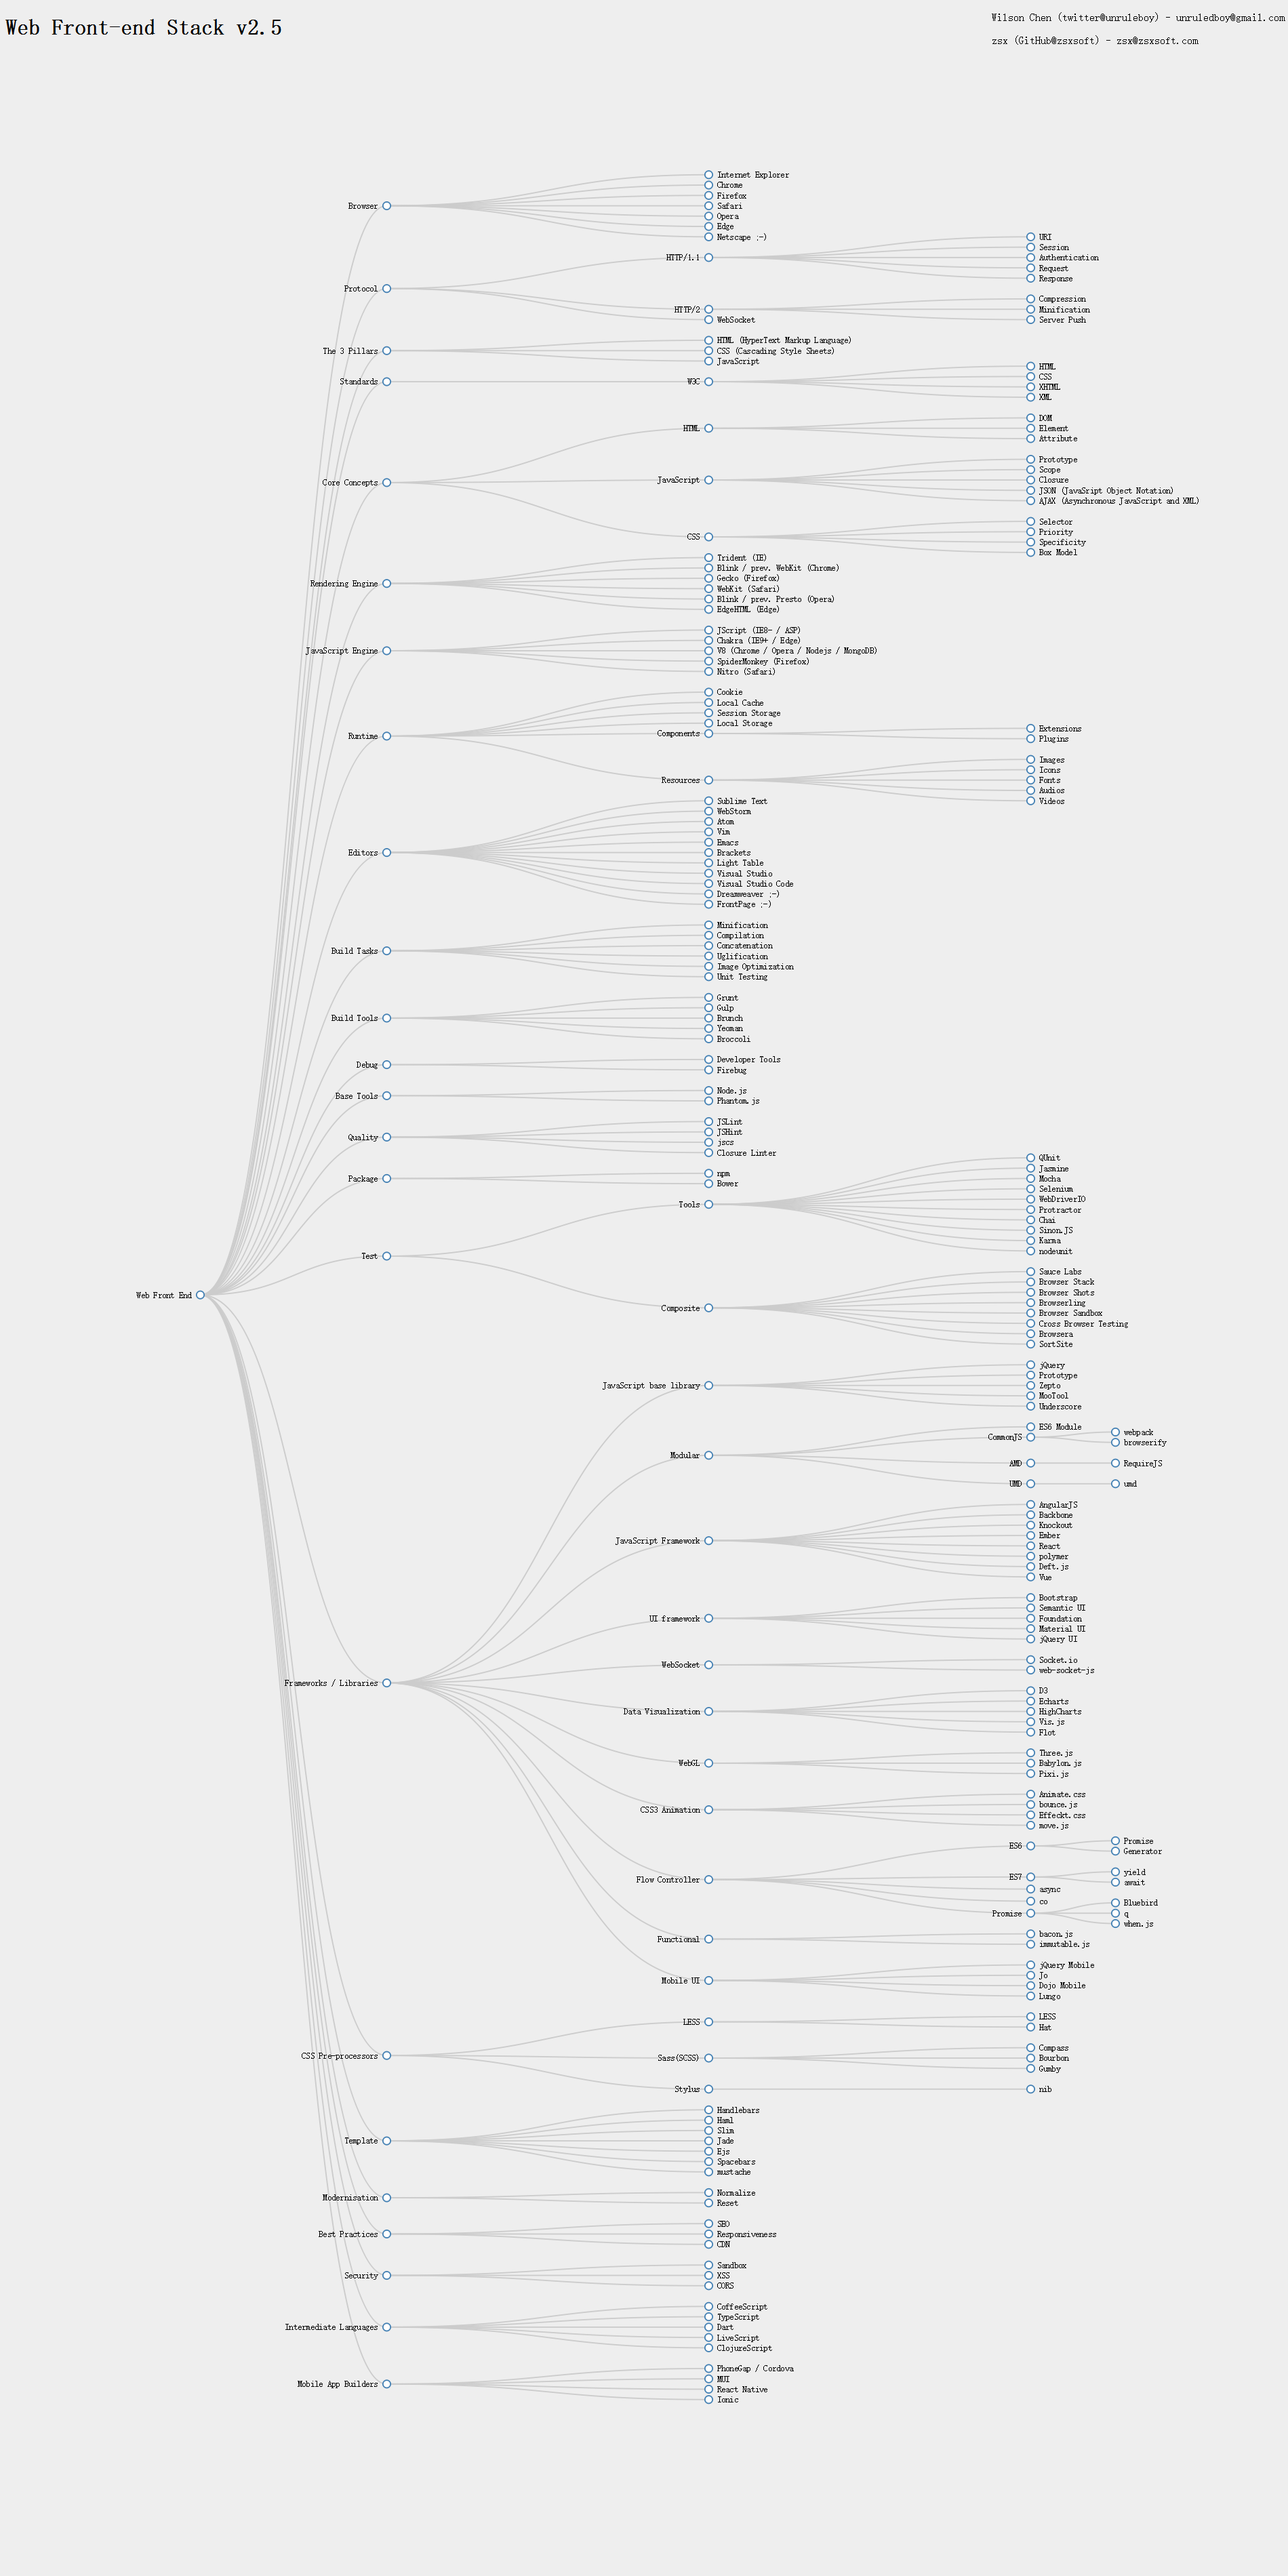
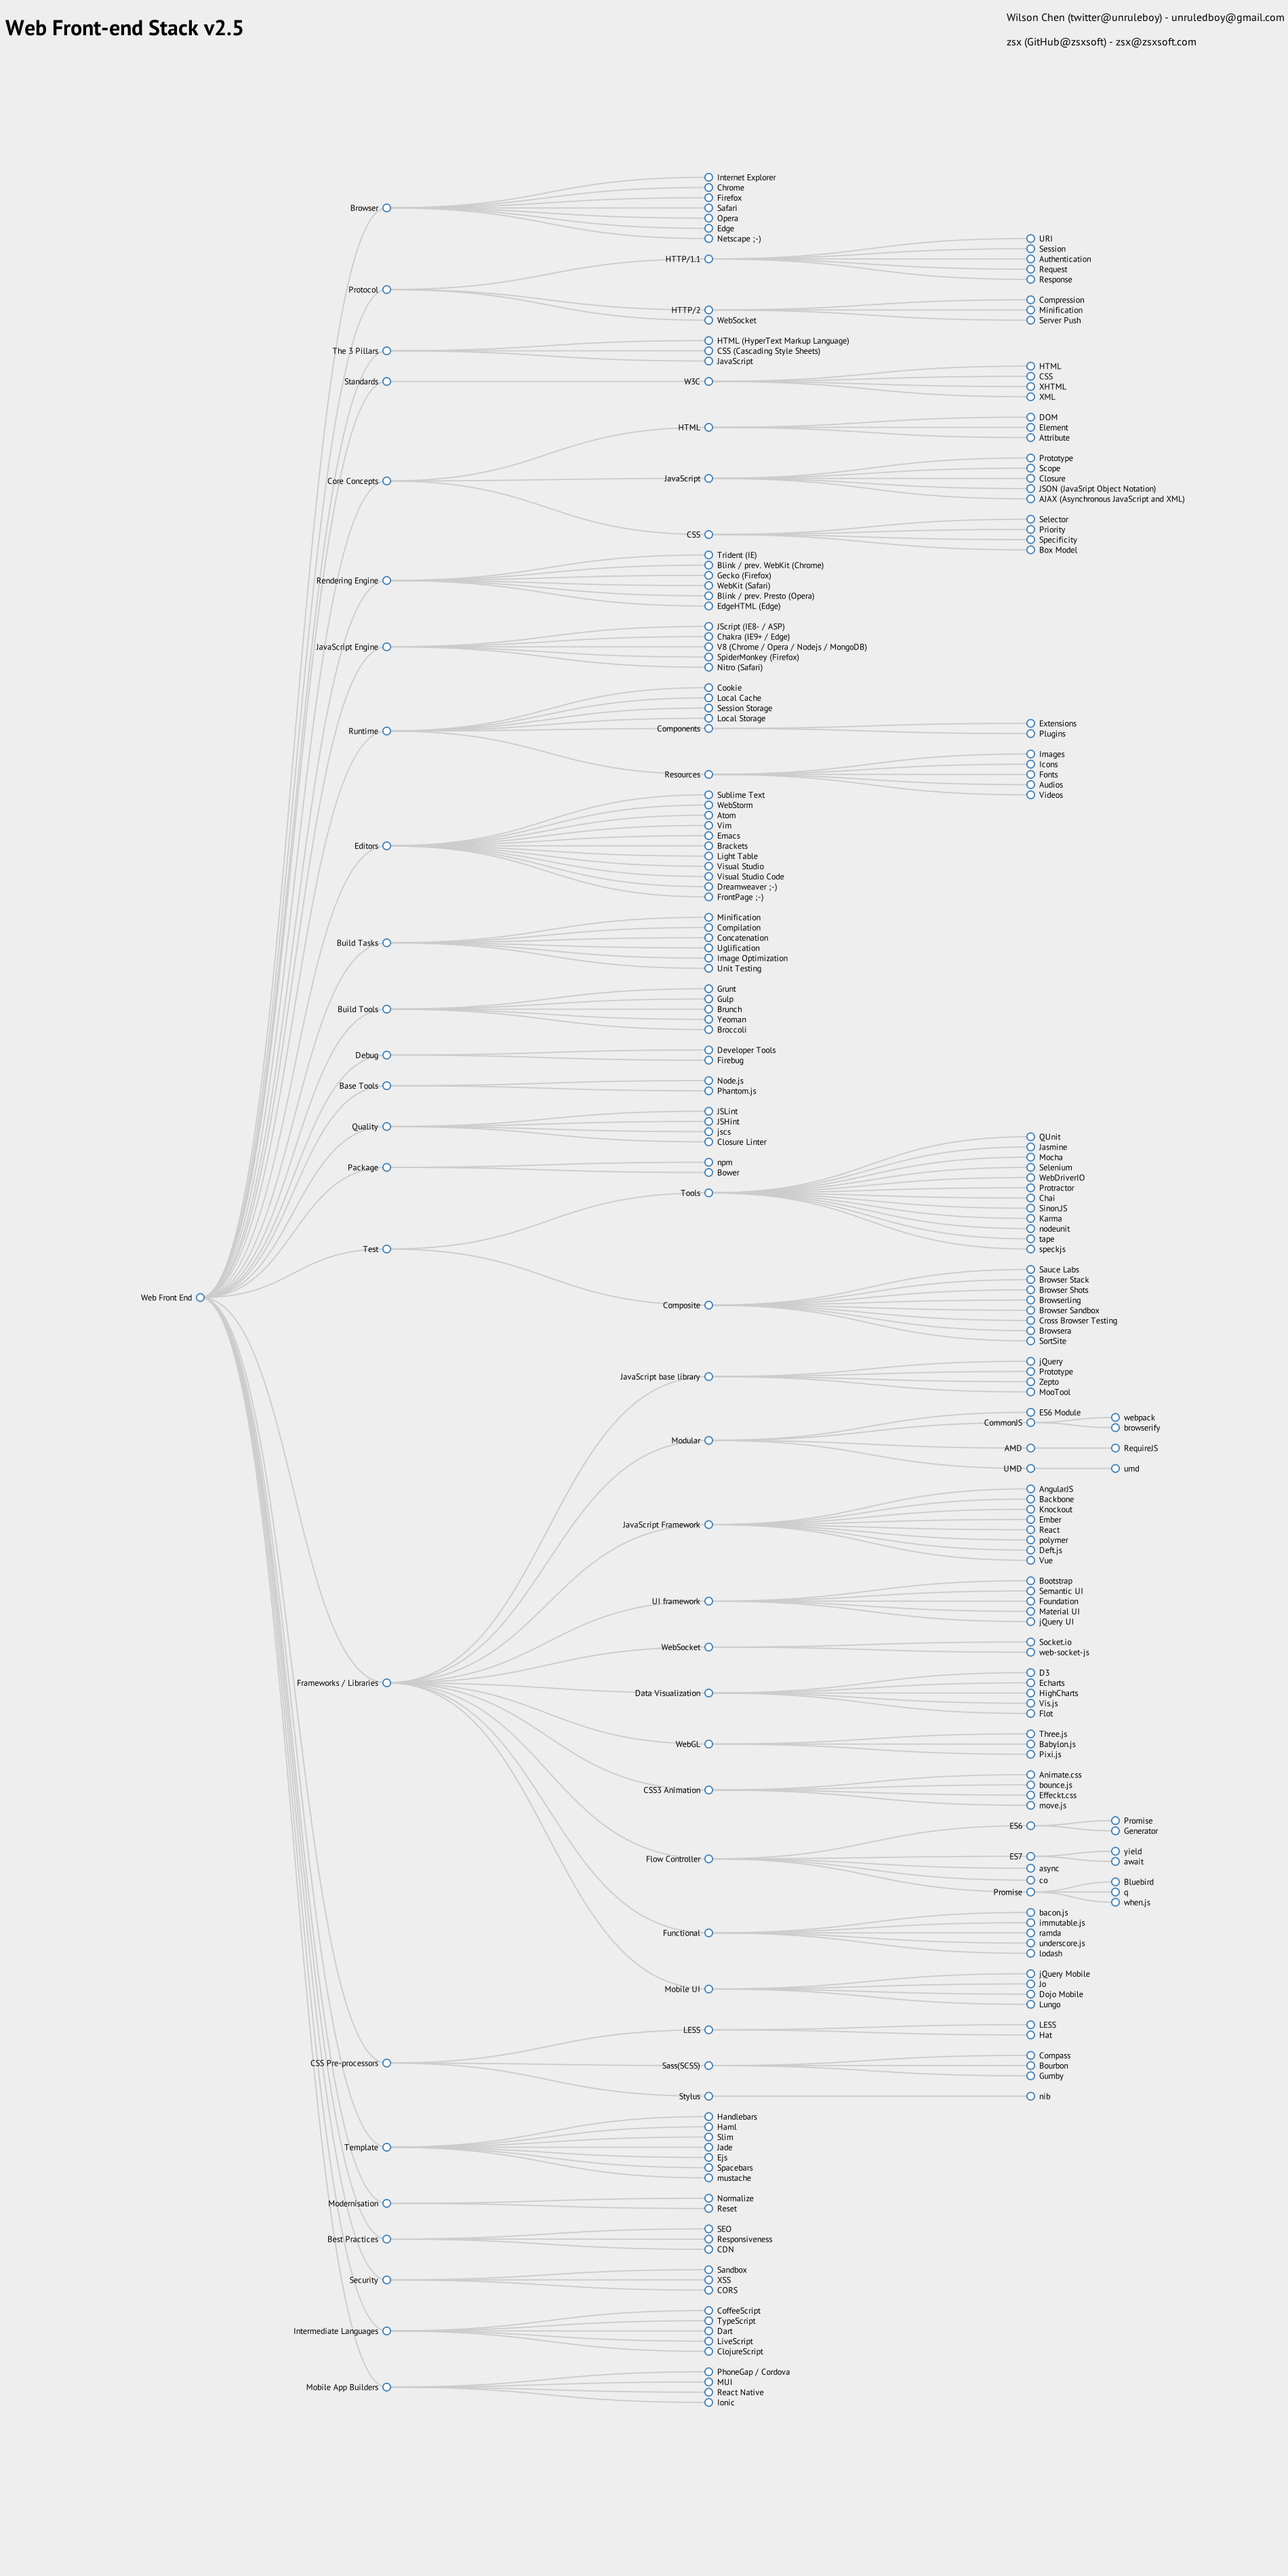
updated functional libraries

diff --git a/README.zh-cn.md b/README.zh-cn.md
@@ -199,6 +199,8 @@ https://rawgit.com/unruledboy/WebFrontEndStack/master/ux/WebFrontEndStack.htm?lo
 			- [Sinon.JS](http://sinonjs.org/) [[GitHub]](https://github.com/cjohansen/Sinon.JS/)
 			- [Karma](http://karma-runner.github.io/) [[GitHub]](https://github.com/karma-runner/karma/)
 			- nodeunit [[GitHub]](https://github.com/caolan/nodeunit/)
+			- tape [[GitHub]](http://github.com/substack/tape)
+			- [speckjs](http://speckjs.github.io/) [[GitHub]](http://github.com/speckjs/speckjs/)
 		- 在线工具
 			- [Sauce Labs](https://saucelabs.com/)
 			- [Browser Stack](https://www.browserstack.com/)
@@ -214,7 +216,6 @@ https://rawgit.com/unruledboy/WebFrontEndStack/master/ux/WebFrontEndStack.htm?lo
 			- [Prototype](http://prototypejs.org/) [[GitHub]](https://github.com/sstephenson/prototype/)
 			- [Zepto](http://zeptojs.com/) [[GitHub]](https://github.com/madrobby/zepto/)
 			- [MooTool](http://mootools.net/) [[GitHub]](https://github.com/mootools/mootools-core/)
-			- [Underscore](http://underscorejs.org/) [[GitHub]](https://github.com/jashkenas/underscore/)
 		- 模块化
 			- ES6 Module
 			- CommonJS
@@ -273,6 +274,9 @@ https://rawgit.com/unruledboy/WebFrontEndStack/master/ux/WebFrontEndStack.htm?lo
 		- 函数式编程
 			- [bacon.js](http://baconjs.github.io/) [[GitHub]](https://github.com/baconjs/bacon.js/)
 			- [immutable.js](https://facebook.github.io/immutable-js/) [[GitHub]](https://github.com/facebook/immutable-js/)
+			- [ramda](http://ramdajs.com/) [[GitHub]](http://github.com/ramda/ramda)
+			- [underscore.js](http://underscorejs.org/) [[GitHub]](https://github.com/jashkenas/underscore)
+			- [lodash](https://lodash.com/) [[GitHub]](https://github.com/lodash/lodash)
 		- 手机 UI 框架
 			- [jQuery Mobile](https://jquerymobile.com/) [[GitHub]](https://github.com/jquery/jquery-mobile/)
 			- [Jo](http://joapp.com/) [[GitHub]](https://github.com/davebalmer/jo/)
@@ -295,9 +299,9 @@ https://rawgit.com/unruledboy/WebFrontEndStack/master/ux/WebFrontEndStack.htm?lo
 		- [Jade](http://jade-lang.com/) [[GitHub]](https://github.com/jadejs/jade/)
 		- [Ejs](http://www.embeddedjs.com/)
 		- [Spacebars](http://meteorcapture.com/spacebars/)
-		- mustache [[GitHub]](https://github.com/janl/mustache.js/)
+		- [mustache](http://mustache.github.io/) [[GitHub]](https://github.com/janl/mustache.js/)
 	- 统一化
-		- Normalize
+		- [Normalize](http://necolas.github.io/normalize.css/) [[GitHub]](https://github.com/necolas/normalize.css/)
 		- Reset
 	- 最佳实践
 		- [SEO](https://en.wikipedia.org/wiki/Search_engine_optimization)

diff --git a/README.md b/README.md
@@ -192,6 +192,8 @@ https://rawgit.com/unruledboy/WebFrontEndStack/master/ux/WebFrontEndStack.htm
 			- [Sinon.JS](http://sinonjs.org/) [[GitHub]](https://github.com/cjohansen/Sinon.JS/)
 			- [Karma](http://karma-runner.github.io/) [[GitHub]](https://github.com/karma-runner/karma/)
 			- nodeunit [[GitHub]](https://github.com/caolan/nodeunit/)
+			- tape [[GitHub]](http://github.com/substack/tape)
+			- [speckjs](http://speckjs.github.io/) [[GitHub]](http://github.com/speckjs/speckjs/)
 		- Composite
 			- [Sauce Labs](https://saucelabs.com/)
 			- [Browser Stack](https://www.browserstack.com/)
@@ -207,7 +209,6 @@ https://rawgit.com/unruledboy/WebFrontEndStack/master/ux/WebFrontEndStack.htm
 			- [Prototype](http://prototypejs.org/) [[GitHub]](https://github.com/sstephenson/prototype/)
 			- [Zepto](http://zeptojs.com/) [[GitHub]](https://github.com/madrobby/zepto/)
 			- [MooTool](http://mootools.net/) [[GitHub]](https://github.com/mootools/mootools-core/)
-			- [Underscore](http://underscorejs.org/) [[GitHub]](https://github.com/jashkenas/underscore/)
 		- Modular
 			- ES6 Module
 			- CommonJS
@@ -266,6 +267,9 @@ https://rawgit.com/unruledboy/WebFrontEndStack/master/ux/WebFrontEndStack.htm
 		- Functional
 			- [bacon.js](http://baconjs.github.io/) [[GitHub]](https://github.com/baconjs/bacon.js/)
 			- [immutable.js](https://facebook.github.io/immutable-js/) [[GitHub]](https://github.com/facebook/immutable-js/)
+			- [ramda](http://ramdajs.com/) [[GitHub]](http://github.com/ramda/ramda)
+			- [underscore.js](http://underscorejs.org/) [[GitHub]](https://github.com/jashkenas/underscore)
+			- [lodash](https://lodash.com/) [[GitHub]](https://github.com/lodash/lodash)
 		- Mobile UI
 			- [jQuery Mobile](https://jquerymobile.com/) [[GitHub]](https://github.com/jquery/jquery-mobile/)
 			- [Jo](http://joapp.com/) [[GitHub]](https://github.com/davebalmer/jo/)
@@ -288,9 +292,9 @@ https://rawgit.com/unruledboy/WebFrontEndStack/master/ux/WebFrontEndStack.htm
 		- [Jade](http://jade-lang.com/) [[GitHub]](https://github.com/jadejs/jade/)
 		- [Ejs](http://www.embeddedjs.com/)
 		- [Spacebars](http://meteorcapture.com/spacebars/)
-		- mustache [[GitHub]](https://github.com/janl/mustache.js/)
+		- [mustache](http://mustache.github.io/) [[GitHub]](https://github.com/janl/mustache.js/)
 	- Modernisation
-		- Normalize
+		- [Normalize](http://necolas.github.io/normalize.css/) [[GitHub]](https://github.com/necolas/normalize.css/)
 		- Reset
 	- Best Practices
 		- [SEO](https://en.wikipedia.org/wiki/Search_engine_optimization)
